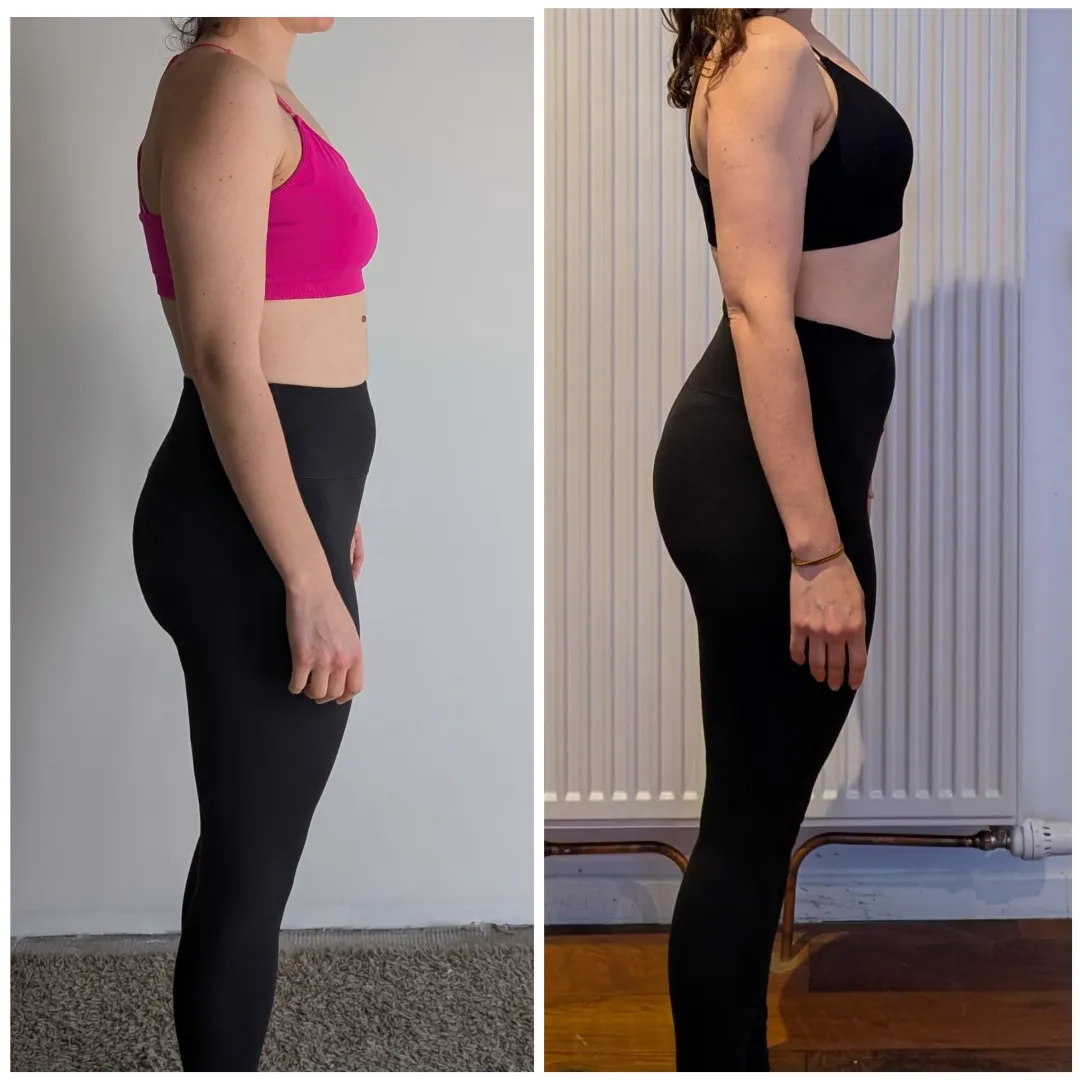
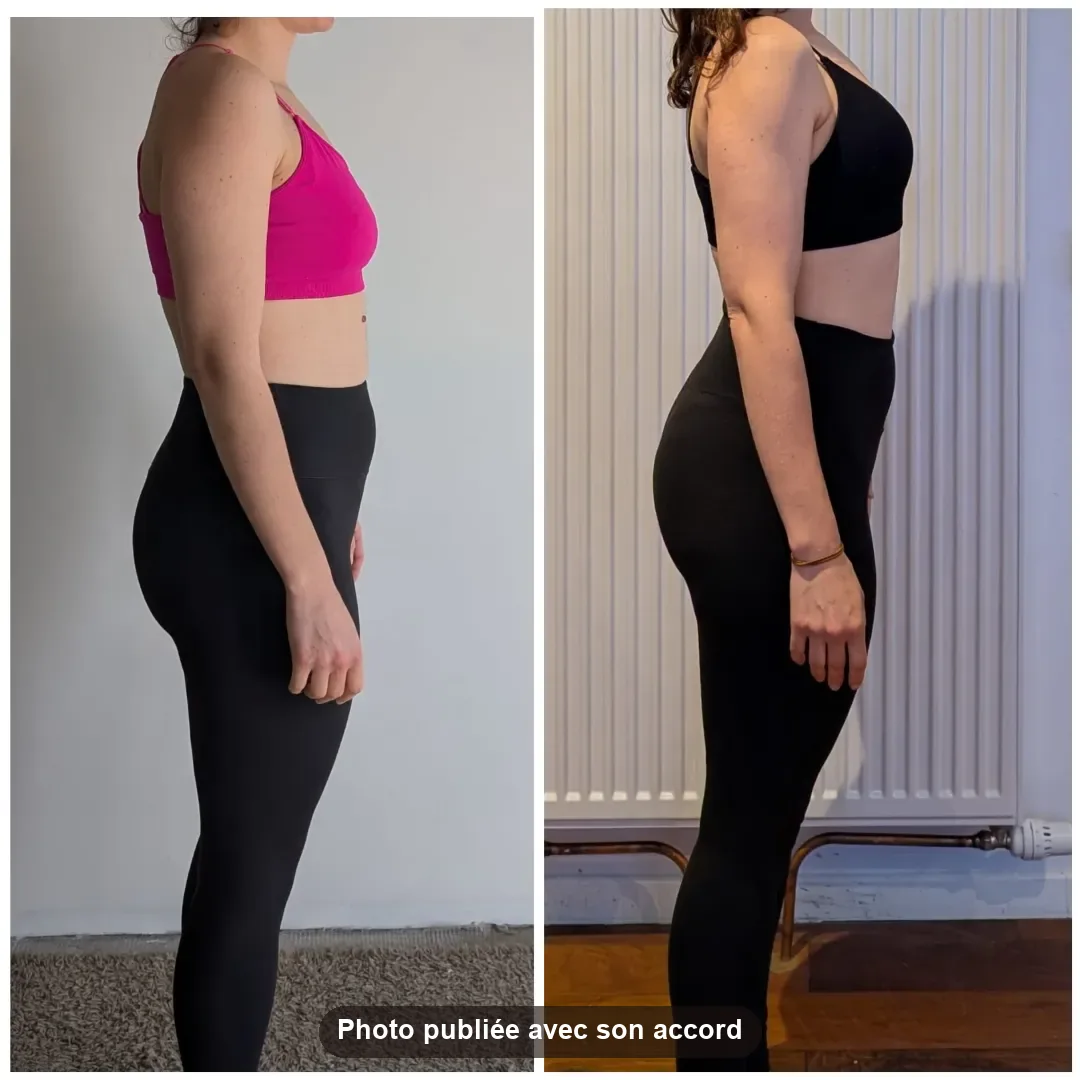
Transfos : uniformité consentement + floutage Lise + Maria 8 mois
- Maria : durée corrigée 6 → 8 mois (accueil, transformations, llms.txt) + ?v=2
- Label « Photo publiée avec son accord » ajouté sur Louise et Emeline
  (accueil) pour uniformiser les 3 cartes
- Lise : parties intimes floutées + label ; texte réécrit autour de la
  recomposition corporelle et du déblocage de stagnation (elle
  s'entraînait déjà mais plafonnait) ; objectif → « Recomposition corporelle »
- ?v=2 sur les images modifiées (cache-bust)

Changed region(s): [[0.275, 0.9167, 0.7028, 0.9778]]

diff --git a/transformations.html b/transformations.html
@@ -698,8 +698,8 @@ height="0" width="0" style="display:none;visibility:hidden"></iframe></noscript>
 <div class="transfo-ticker-wrap">
   <div class="transfo-ticker">
     <div class="transfo-ticker-track">
-      <a href="#transfo-maria"><img src="images/maria-face.webp" alt="Transformation Maria" width="1200" height="1200" loading="lazy"></a>
-      <a href="#transfo-lise"><img src="images/lise-face.webp" alt="Transformation Lise" width="1191" height="1191" loading="lazy"></a>
+      <a href="#transfo-maria"><img src="images/maria-face.webp?v=2" alt="Transformation Maria" width="1200" height="1200" loading="lazy"></a>
+      <a href="#transfo-lise"><img src="images/lise-face.webp?v=2" alt="Transformation Lise" width="1191" height="1191" loading="lazy"></a>
       <a href="#transfo-lucie"><img src="images/avis/lucie.webp" alt="Transformation Lucie" width="720" height="720" loading="lazy"></a>
       <a href="#transfo-ornella"><img src="images/ornella-avant-apres-postpartum.jpg" alt="Transformation Ornella post-partum" width="2048" height="2048"></a>
       <a href="#transfo-chantal"><img src="images/transformation-chantal.webp" alt="Transformation Chantal" width="1536" height="1024" loading="lazy"></a>
@@ -710,8 +710,8 @@ height="0" width="0" style="display:none;visibility:hidden"></iframe></noscript>
       <a href="#transfo-anonyme"><img src="images/avant-apres-anonyme.jpg" alt="Transformation cliente" width="2048" height="2048" loading="lazy"></a>
       <a href="#transfo-anonyme"><img src="images/avant-apres-profil-anonyme.jpg" alt="Transformation cliente profil" width="2048" height="2048" loading="lazy"></a>
       <!-- doublon pour boucle infinie -->
-      <a href="#transfo-maria"><img src="images/maria-face.webp" alt="Transformation Maria" width="1200" height="1200" loading="lazy"></a>
-      <a href="#transfo-lise"><img src="images/lise-face.webp" alt="Transformation Lise" width="1191" height="1191" loading="lazy"></a>
+      <a href="#transfo-maria"><img src="images/maria-face.webp?v=2" alt="Transformation Maria" width="1200" height="1200" loading="lazy"></a>
+      <a href="#transfo-lise"><img src="images/lise-face.webp?v=2" alt="Transformation Lise" width="1191" height="1191" loading="lazy"></a>
       <a href="#transfo-lucie"><img src="images/avis/lucie.webp" alt="Transformation Lucie" width="720" height="720" loading="lazy"></a>
       <a href="#transfo-ornella"><img src="images/ornella-avant-apres-postpartum.jpg" alt="Transformation Ornella post-partum" width="2048" height="2048" loading="lazy"></a>
       <a href="#transfo-chantal"><img src="images/transformation-chantal.webp" alt="Transformation Chantal" width="1536" height="1024" loading="lazy"></a>
@@ -839,12 +839,12 @@ height="0" width="0" style="display:none;visibility:hidden"></iframe></noscript>
       <div class="tc-card-featured" id="transfo-maria">
         <div class="tc-featured-photos">
           <div class="transfo-img-wrap">
-            <img src="images/maria-face.webp" alt="Transformation Maria vue de face — coaching 100 % à distance Ornella Fit" loading="lazy" width="1200" height="1200">
+            <img src="images/maria-face.webp?v=2" alt="Transformation Maria vue de face — coaching 100 % à distance Ornella Fit" loading="lazy" width="1200" height="1200">
             <div class="transfo-img-label">Vue de face</div>
             <div class="transfo-img-tag">AVANT → APRÈS</div>
           </div>
           <div class="transfo-img-wrap">
-            <img src="images/maria-dos.webp" alt="Transformation Maria vue de dos — coaching 100 % à distance Ornella Fit" loading="lazy" width="1080" height="1080">
+            <img src="images/maria-dos.webp?v=2" alt="Transformation Maria vue de dos — coaching 100 % à distance Ornella Fit" loading="lazy" width="1080" height="1080">
             <div class="transfo-img-label">Vue de dos</div>
             <div class="transfo-img-tag">AVANT → APRÈS</div>
           </div>
@@ -860,7 +860,7 @@ height="0" width="0" style="display:none;visibility:hidden"></iframe></noscript>
               <div class="tc-featured-stat-label">Poids perdu</div>
             </div>
             <div class="tc-featured-stat">
-              <div class="tc-featured-stat-num">6</div>
+              <div class="tc-featured-stat-num">8</div>
               <div class="tc-featured-stat-label">Mois de suivi</div>
             </div>
             <div class="tc-featured-stat">
@@ -868,7 +868,7 @@ height="0" width="0" style="display:none;visibility:hidden"></iframe></noscript>
               <div class="tc-featured-stat-label">À distance</div>
             </div>
           </div>
-          <p class="tc-featured-story">Deux enfants, peu de temps, et jamais une séance en face à face : tout s'est fait à distance. Un programme construit pour elle, l'alimentation ajustée chaque mois, un suivi WhatsApp et un bilan régulier. <strong>Résultat : −10 kg en 6 mois, un ventre affiné et des fessiers redessinés.</strong></p>
+          <p class="tc-featured-story">Deux enfants, peu de temps, et jamais une séance en face à face : tout s'est fait à distance. Un programme construit pour elle, l'alimentation ajustée chaque mois, un suivi WhatsApp et un bilan régulier. <strong>Résultat : −10 kg en 8 mois, un ventre affiné et des fessiers redessinés.</strong></p>
           <a href="https://wa.me/33756834626?text=Bonjour%20Ornella%20!%20J%27ai%20vu%20la%20transformation%20de%20Maria%20et%20j%27aimerais%20un%20coaching%20%C3%A0%20distance.%20Comment%20on%20commence%20%3F" class="btn-main" target="_blank" style="display:inline-flex;align-self:flex-start;">Je veux un suivi comme Maria →</a>
           <a href="offres.html#tarif-distanciel" class="tc-formule-link" style="display:inline-block;margin-top:10px;font-size:.88rem;font-weight:700;color:#C96358;text-decoration:underline;text-underline-offset:3px;">Découvrir le coaching à distance →</a>
         </div>
@@ -878,19 +878,19 @@ height="0" width="0" style="display:none;visibility:hidden"></iframe></noscript>
       <div class="tc-card-featured" id="transfo-lise">
         <div class="tc-featured-photos">
           <div class="transfo-img-wrap">
-            <img src="images/lise-face.webp" alt="Transformation Lise vue de face — coaching à distance puis hybride Ornella Fit" loading="lazy" width="1191" height="1191">
+            <img src="images/lise-face.webp?v=2" alt="Transformation Lise vue de face — coaching à distance puis hybride Ornella Fit" loading="lazy" width="1191" height="1191">
             <div class="transfo-img-label">Vue de face</div>
             <div class="transfo-img-tag">AVANT → APRÈS</div>
           </div>
           <div class="transfo-img-wrap">
-            <img src="images/lise-profil.webp" alt="Transformation Lise vue de profil — coaching à distance puis hybride Ornella Fit" loading="lazy" width="1015" height="1015">
+            <img src="images/lise-profil.webp?v=2" alt="Transformation Lise vue de profil — coaching à distance puis hybride Ornella Fit" loading="lazy" width="1015" height="1015">
             <div class="transfo-img-label">Vue de profil</div>
             <div class="transfo-img-tag">AVANT → APRÈS</div>
           </div>
         </div>
         <div class="tc-featured-info">
           <div class="tc-featured-eyebrow">⭐ Transformation · Résultat réel · Suivi en cours</div>
-          <div style="display:inline-block;background:#2C1F1A;color:#C9A96E;font-size:0.7rem;font-weight:700;letter-spacing:0.1em;text-transform:uppercase;padding:5px 12px;border-radius:50px;margin-bottom:10px;">🔥 Objectif : Ventre &amp; silhouette</div>
+          <div style="display:inline-block;background:#2C1F1A;color:#C9A96E;font-size:0.7rem;font-weight:700;letter-spacing:0.1em;text-transform:uppercase;padding:5px 12px;border-radius:50px;margin-bottom:10px;">🔥 Objectif : Recomposition corporelle</div>
           <div class="tc-featured-name">Lise</div>
           <div class="tc-featured-context">Coaching à distance puis hybride · Programme sur-mesure · Suivi WhatsApp</div>
           <div class="tc-featured-stats">
@@ -907,7 +907,7 @@ height="0" width="0" style="display:none;visibility:hidden"></iframe></noscript>
               <div class="tc-featured-stat-label">Régime extrême</div>
             </div>
           </div>
-          <p class="tc-featured-story">Un programme construit pour elle, suivi à distance puis en hybride, ajusté à chaque bilan. Pas de salle obligatoire, pas de privation : de la régularité et un vrai suivi. <strong>Résultat : un ventre affiné, une taille dessinée, une silhouette transformée en 6 mois. Et elle continue.</strong></p>
+          <p class="tc-featured-story">Lise s'entraînait déjà avant de me rejoindre — mais elle stagnait : beaucoup d'efforts, peu de changements visibles. On a tout restructuré ensemble : un programme sur-mesure réellement progressif, l'alimentation ajustée à chaque bilan et un vrai suivi, à distance puis en hybride. <strong>Résultat : une véritable recomposition corporelle — moins de gras, plus de tonus, un ventre affiné et une taille dessinée, sans régime extrême. Et elle continue.</strong></p>
           <a href="https://wa.me/33756834626?text=Bonjour%20Ornella%20!%20J%27ai%20vu%20la%20transformation%20de%20Lise%20et%20j%27aimerais%20un%20coaching%20%C3%A0%20distance.%20Comment%20on%20commence%20%3F" class="btn-main" target="_blank" style="display:inline-flex;align-self:flex-start;">Je veux un suivi comme Lise →</a>
           <a href="offres.html#tarif-hybride" class="tc-formule-link" style="display:inline-block;margin-top:10px;font-size:.88rem;font-weight:700;color:#C96358;text-decoration:underline;text-underline-offset:3px;">Découvrir le coaching hybride →</a>
         </div>

diff --git a/index.html b/index.html
@@ -1219,7 +1219,7 @@ height="0" width="0" style="display:none;visibility:hidden"></iframe></noscript>
           Réserver mon bilan gratuit →
         </a>
         <p class="hero-proof-line" style="margin-top:12px;font-size:0.92rem;color:var(--dark);font-weight:600;">
-          <span style="color:#C9A96E;">★ 5,0</span> · 25 avis Google · <span style="color:var(--accent);">Maria −10 kg en 6 mois</span>
+          <span style="color:#C9A96E;">★ 5,0</span> · 25 avis Google · <span style="color:var(--accent);">Maria −10 kg en 8 mois</span>
         </p>
         <p style="margin-top:8px;font-size:0.9rem;color:var(--text-mid);">
           ou <a href="https://wa.me/33756834626" target="_blank" style="color:var(--accent);text-decoration:underline;text-underline-offset:3px;">m'écrire sur WhatsApp</a>
@@ -1408,7 +1408,7 @@ height="0" width="0" style="display:none;visibility:hidden"></iframe></noscript>
     <div class="chiffres-secondary">
       <div class="chiffres-stat">
         <div class="chiffres-stat-num">−10 kg</div>
-        <div class="chiffres-stat-label">Maria · 6 mois à distance</div>
+        <div class="chiffres-stat-label">Maria · 8 mois à distance</div>
       </div>
       <div class="chiffres-stat">
         <div class="chiffres-stat-num">−9 cm</div>
@@ -1635,9 +1635,9 @@ height="0" width="0" style="display:none;visibility:hidden"></iframe></noscript>
     <!-- TICKER PHOTOS TRANSFORMATIONS (boucle infinie : le 2e jeu est cloné en JS, cf. idxTickerLoop) -->
     <div class="idx-ticker-wrap">
       <div class="idx-ticker-track" id="idx-ticker-track">
-        <a href="transformations.html#transfo-maria"><img src="images/maria-face.webp" alt="Transformation Maria" width="1200" height="1200" loading="lazy"></a>
-        <a href="transformations.html#transfo-louise"><img src="images/louise-face.webp" alt="Transformation Louise" width="4319" height="4319" loading="lazy"></a>
-        <a href="transformations.html#transfo-louise"><img src="images/louise-dos-avant-apres.webp" alt="Transformation Louise dos" width="4319" height="4319" loading="lazy"></a>
+        <a href="transformations.html#transfo-maria"><img src="images/maria-face.webp?v=2" alt="Transformation Maria" width="1200" height="1200" loading="lazy"></a>
+        <a href="transformations.html#transfo-louise"><img src="images/louise-face.webp?v=2" alt="Transformation Louise" width="4319" height="4319" loading="lazy"></a>
+        <a href="transformations.html#transfo-louise"><img src="images/louise-dos-avant-apres.webp?v=2" alt="Transformation Louise dos" width="4319" height="4319" loading="lazy"></a>
         <a href="transformations.html#transfo-emeline"><img src="images/transformation-emeline.webp" alt="Transformation Emeline" width="1080" height="1350" loading="lazy"></a>
         <a href="transformations.html#transfo-chantal"><img src="images/transformation-chantal.webp" alt="Transformation Chantal" width="1536" height="1024" loading="lazy"></a>
         <a href="transformations.html#transfo-ornella"><img src="images/ornella-avant-apres-postpartum.webp" alt="Ornella post-partum" width="2048" height="2048" loading="lazy"></a>
@@ -1660,8 +1660,8 @@ height="0" width="0" style="display:none;visibility:hidden"></iframe></noscript>
       <!-- MARIA — 100 % à distance -->
       <div class="transfo-card transfo-card-featured transfo-card-emeline">
         <div class="transfo-card-img transfo-card-img-duo">
-          <img src="images/maria-face.webp" alt="Transformation Maria face — coaching 100 % à distance Ornella Fit" loading="lazy" width="1200" height="1200">
-          <img src="images/maria-dos.webp" alt="Transformation Maria dos — coaching 100 % à distance Ornella Fit" loading="lazy" width="1080" height="1080">
+          <img src="images/maria-face.webp?v=2" alt="Transformation Maria face — coaching 100 % à distance Ornella Fit" loading="lazy" width="1200" height="1200">
+          <img src="images/maria-dos.webp?v=2" alt="Transformation Maria dos — coaching 100 % à distance Ornella Fit" loading="lazy" width="1080" height="1080">
           <div class="transfo-card-tag">AVANT → APRÈS</div>
         </div>
         <div class="transfo-card-body">
@@ -1669,18 +1669,18 @@ height="0" width="0" style="display:none;visibility:hidden"></iframe></noscript>
           <div class="transfo-card-name">Maria · Maman 2 enfants · Coaching 100 % à distance</div>
           <div class="transfo-card-stats">
             <span class="transfo-card-stat">−10 kg</span>
-            <span class="transfo-card-stat">6 mois</span>
+            <span class="transfo-card-stat">8 mois</span>
             <span class="transfo-card-stat">100 % à distance</span>
           </div>
-          <p class="transfo-card-text">Deux enfants, peu de temps, jamais une séance en face à face : tout s'est fait à distance. Programme sur-mesure, alimentation ajustée chaque mois, suivi WhatsApp. <strong>Résultat : −10 kg en 6 mois, ventre affiné et fessiers redessinés.</strong></p>
+          <p class="transfo-card-text">Deux enfants, peu de temps, jamais une séance en face à face : tout s'est fait à distance. Programme sur-mesure, alimentation ajustée chaque mois, suivi WhatsApp. <strong>Résultat : −10 kg en 8 mois, ventre affiné et fessiers redessinés.</strong></p>
         </div>
       </div>
 
       <!-- EMELINE 2 MOIS -->
       <div class="transfo-card transfo-card-emeline">
         <div class="transfo-card-img transfo-card-img-duo">
-          <img src="images/avant-apres-emeline-2.webp" alt="Transformation Emeline face 2 mois — coaching Ornella Fit" loading="lazy" width="4319" height="4319">
-          <img src="images/avant-apres-emeline-dos.webp" alt="Transformation Emeline dos 2 mois — coaching Ornella Fit" loading="lazy" width="4319" height="4319">
+          <img src="images/avant-apres-emeline-2.webp?v=2" alt="Transformation Emeline face 2 mois — coaching Ornella Fit" loading="lazy" width="4319" height="4319">
+          <img src="images/avant-apres-emeline-dos.webp?v=2" alt="Transformation Emeline dos 2 mois — coaching Ornella Fit" loading="lazy" width="4319" height="4319">
           <div class="transfo-card-tag">AVANT → APRÈS</div>
         </div>
         <div class="transfo-card-body">
@@ -1698,8 +1698,8 @@ height="0" width="0" style="display:none;visibility:hidden"></iframe></noscript>
       <!-- LOUISE — à domicile -->
       <div class="transfo-card transfo-card-emeline">
         <div class="transfo-card-img transfo-card-img-duo">
-          <img src="images/louise-face.webp" alt="Transformation Louise face — coaching à domicile Ornella Fit Essonne" loading="lazy" width="4319" height="4319">
-          <img src="images/louise-dos-avant-apres.webp" alt="Transformation Louise dos — coaching à domicile Ornella Fit Essonne" loading="lazy" width="4319" height="4319">
+          <img src="images/louise-face.webp?v=2" alt="Transformation Louise face — coaching à domicile Ornella Fit Essonne" loading="lazy" width="4319" height="4319">
+          <img src="images/louise-dos-avant-apres.webp?v=2" alt="Transformation Louise dos — coaching à domicile Ornella Fit Essonne" loading="lazy" width="4319" height="4319">
           <div class="transfo-card-tag">AVANT → APRÈS</div>
         </div>
         <div class="transfo-card-body">
